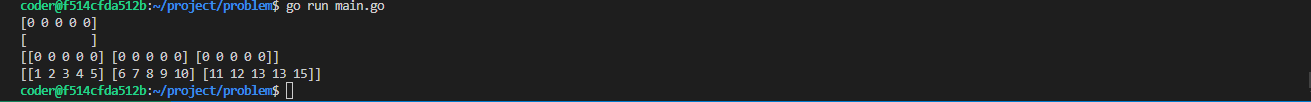
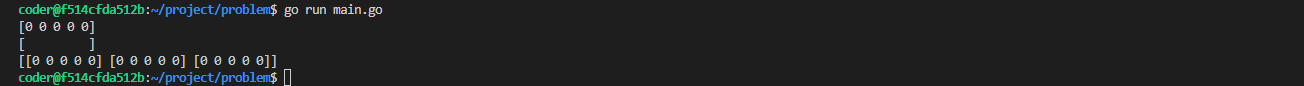
Array - 1

diff --git a/Data Structure.md b/Data Structure.md
@@ -34,21 +34,22 @@ In other languages like Javascript value of an uninitialized variable is undefin
 
 ```go
 func main() {
-	// Fixed Length = Array
+	// ############ INTEGER
 	var v_int_arr [5]int 	
 	fmt.Println(v_int_arr)
 
-	// Fixed Length = Array
+	// ############ STRING
 	var v_str_arr [10]string	
 	fmt.Println(v_str_arr)
 
+	// ############ 2D INTEGER
 	var v_2d_arr [3][5]int
 	fmt.Println(v_2d_arr)
 }
 ```
 
 **Output**
-![alt text](image-3.png)
+![alt text](image-1.png)
 
 ---
 
@@ -56,33 +57,45 @@ func main() {
 
 ```go
 func main() {
-	// Fixed Length = Array
-	var v_int_arr [5]int 	
-	fmt.Println(v_int_arr)
+	// ############ INTEGER
+    var v_int_init = [10]int{1, 2, 3, 4, 5, 6, 7, 8, 9, 10}
+    fmt.Println(v_int_init)
 
-	// Fixed Length = Array
-	var v_str_arr [10]string	
-	fmt.Println(v_str_arr)
-
-	var v_2d_arr [3][5]int
-	fmt.Println(v_2d_arr)
-
-	// Fixed Length = Array
-	var v_2d_arr_init = [3][5]int {}
-	fmt.Println(v_2d_arr_init)
-
-	// Fixed Length = Array
+	// ############ 2D INTEGER
 	var v_2d_arr_init_assigned = [3][5]int {	
 		{1, 2, 3, 4, 5},
 		{6, 7, 8, 9, 10},
 		{11, 12, 13, 13, 15},
 	}
 	fmt.Println(v_2d_arr_init_assigned)
+
+	// ############ STRING
+	var v_str_init = [10]string{"one", "two", "three", "four", "five", "six", "seven", "eight", "nine", "ten"}
+	fmt.Println(v_str_init) 
+
+	// ############ ARRAY OF STRUCT
+	type Car struct {
+		Brand string
+		Color string
+		Price float32
+	}
+	// Array of 5 items of type Car
+	var v_struct_items = [5]Car {
+		{Brand: "Porsche", Color: "Black", Price: 20000.00},
+		{Brand: "Volvo", Color: "White", Price: 8000.00},
+		{Brand: "Honda", Color: "Blue", Price: 7000.00},
+		{Brand: "Tesla", Color: "Black", Price: 50000.00},
+		{Brand: "Kia", Color: "Red", Price: 5000.98},
+	}
+	fmt.Println(v_struct_items)
 }
 ```
 
 **Output**
+![alt text](image.png)
 
 ---
+
+
 
 
